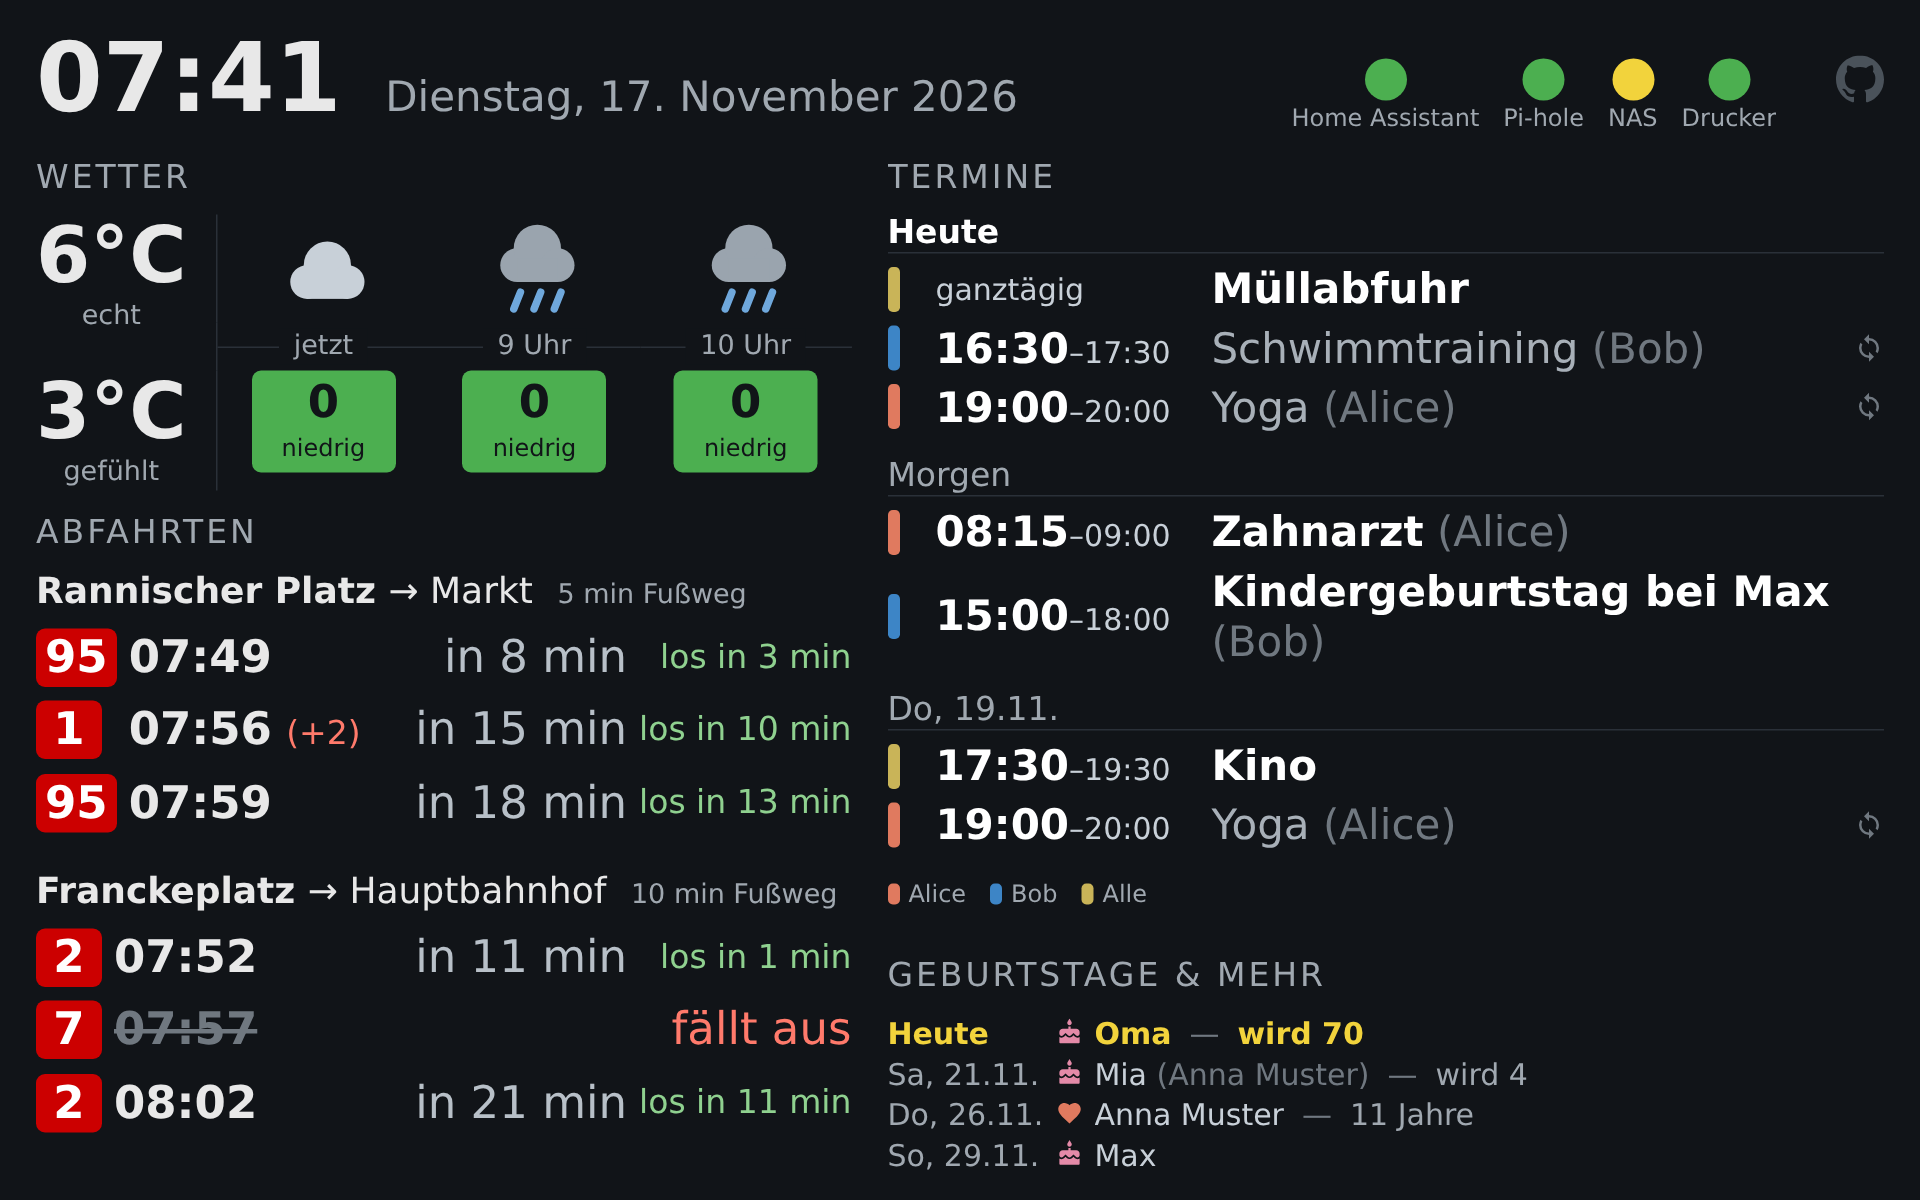
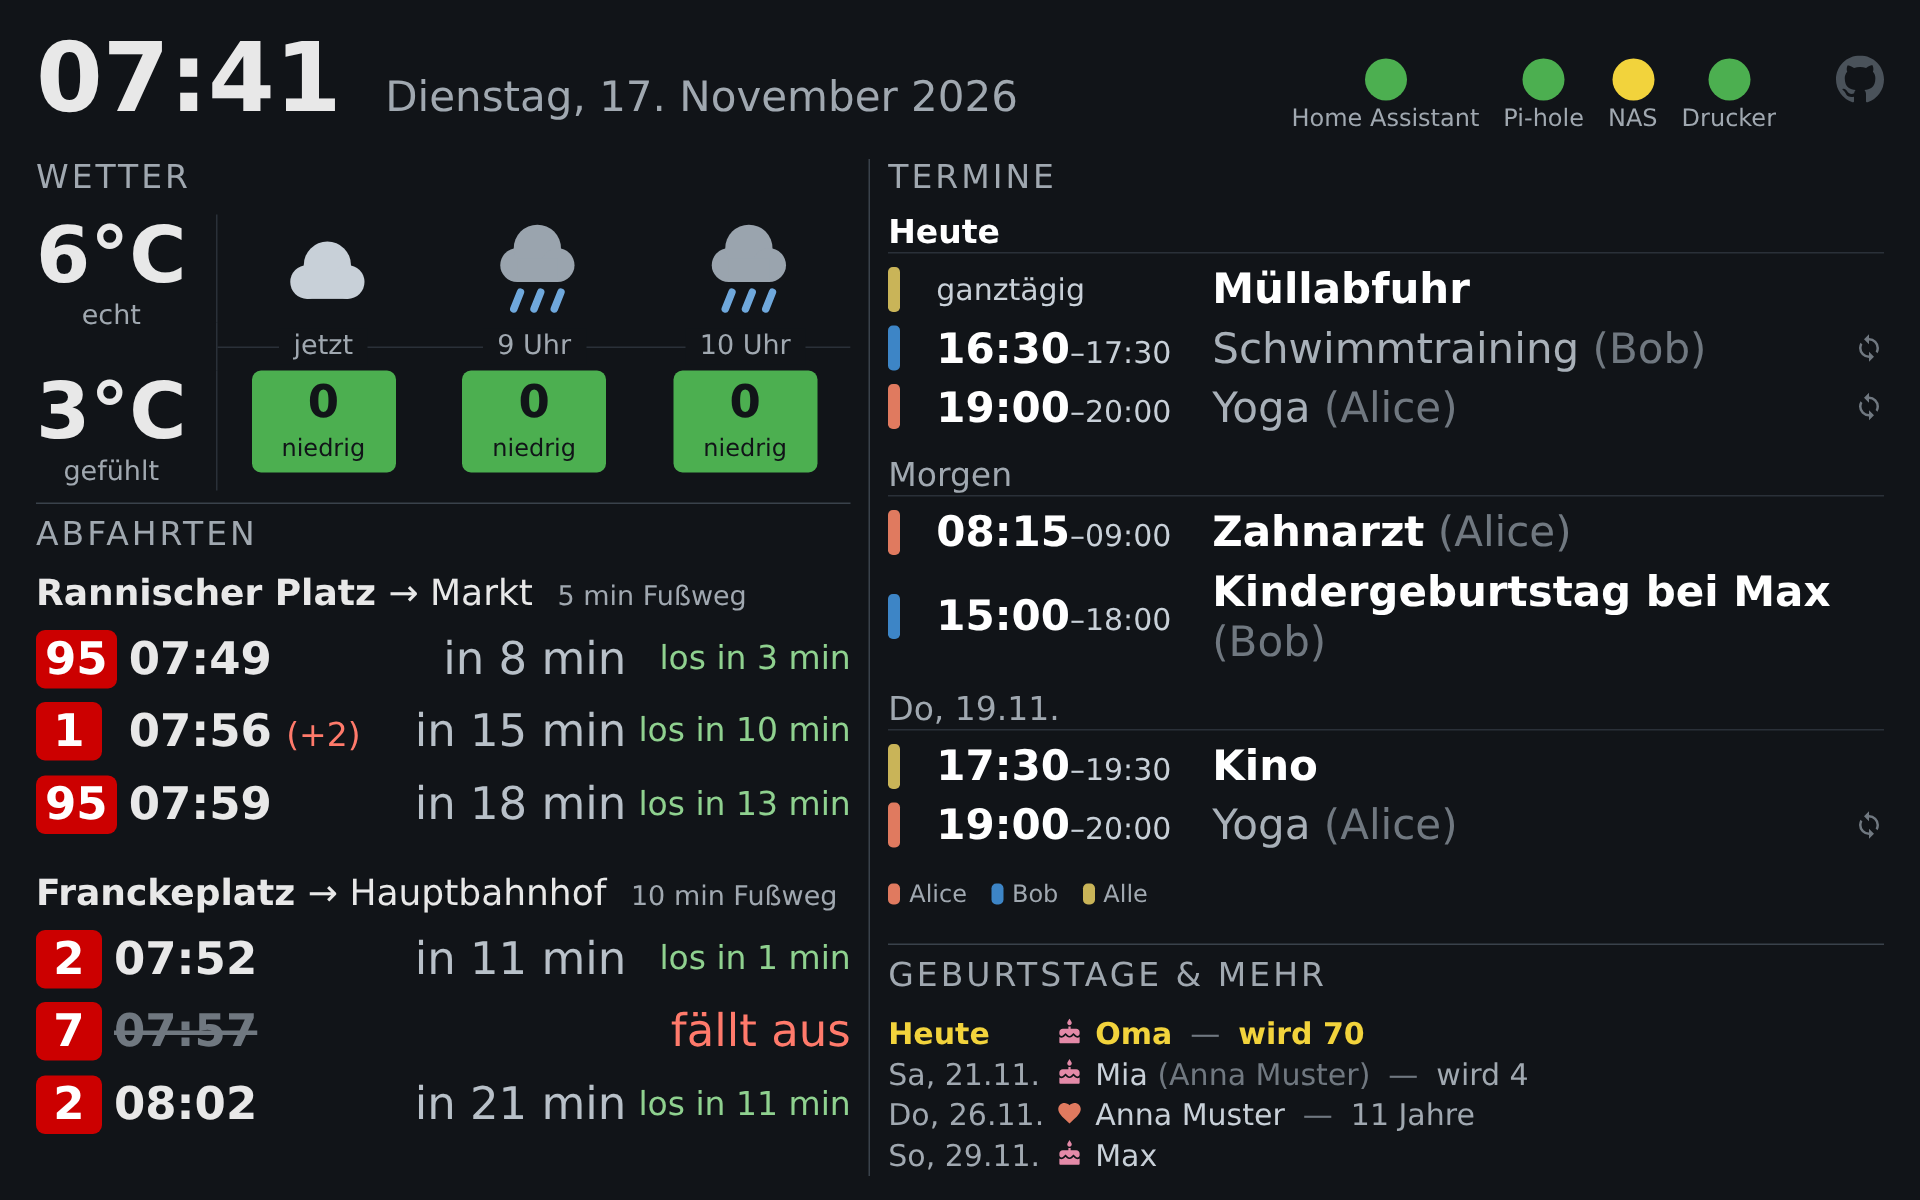
Separate the widgets with fine light gray lines
A vertical line between the two columns (horizontal when they stack in
portrait), a horizontal one between weather and departures and between
calendar and birthdays. The gaps keep their former size, so no rows are
lost. The calendar carries its line at the bottom, so the content-sized
birthdays stay exactly as high as their rows.

diff --git a/src/home_dashboard/static/style.css b/src/home_dashboard/static/style.css
@@ -200,7 +200,7 @@ body {
   -webkit-box-flex: 9;
   -webkit-flex: 9 1 0;
   flex: 9 1 0;
-  margin-right: 1.5rem;
+  margin-right: 0.75rem;
   min-width: 0;
   min-height: 0;
   display: -webkit-box;
@@ -213,6 +213,15 @@ body {
 
 .column:last-child {
   margin-right: 0;
+}
+
+/* Fine lines split the widgets: a vertical one between the columns, a horizontal one in each
+ * column, in the middle of the gaps (as wide and high as before the lines). Lighter than the lines
+ * inside the widgets (#2a3038). Padding and borders are outside the flex distribution, so the
+ * 45/55 split of the widths stays exact. */
+.column + .column {
+  padding-left: 0.75rem;
+  border-left: 1px solid #3a424b;
 }
 
 .column .widget {
@@ -252,7 +261,9 @@ body {
 }
 
 .widget-weather + .widget-departures {
-  margin-top: 1rem;
+  margin-top: 0.5rem;
+  padding-top: 0.5rem;
+  border-top: 1px solid #3a424b;
 }
 
 /* Below the calendar: as high as its content, at most a third of the column; the calendar takes
@@ -264,8 +275,15 @@ body {
   max-height: 33%;
 }
 
+/* The line belongs to the calendar (fixed height), so the birthdays stay exactly as high as their
+ * rows */
+.column .widget-calendar:not(:last-child) {
+  padding-bottom: 0.5rem;
+  border-bottom: 1px solid #3a424b;
+}
+
 .widget-calendar + .widget-birthdays {
-  margin-top: 1rem;
+  margin-top: 0.5rem;
 }
 
 /* Portrait or very narrow: widgets below each other */
@@ -286,6 +304,14 @@ body {
   .column:last-child,
   .column .widget {
     margin-bottom: 0;
+  }
+
+  /* The line between the columns turns horizontal */
+  .column + .column {
+    padding-left: 0;
+    border-left: 0;
+    padding-top: 1rem;
+    border-top: 1px solid #3a424b;
   }
 
   /* Weather + departures and calendar + birthdays share the height equally */

diff --git a/tests/test_layout.py b/tests/test_layout.py
@@ -463,3 +463,69 @@ def test_the_years_follow_the_name_and_are_never_cut_off(open_dashboard, viewpor
     assert short["years"]["right"] < short["row"]["right"] - 5 * short["rem"], "not at the edge"
     assert long["years"]["right"] <= long["row"]["right"] + 1, "the long name gives way"
     assert long["years"]["left"] >= long["text"]["right"]
+
+
+SEPARATORS = """() => {
+  const box = (el) => {
+    const b = el.getBoundingClientRect();
+    return {left: b.left, right: b.right, top: b.top, bottom: b.bottom};
+  };
+  // Every drawn border of the columns and widgets, as a line
+  const lines = [];
+  for (const el of document.querySelectorAll('.column, .widget')) {
+    const style = getComputedStyle(el);
+    const b = box(el);
+    const width = (side) => style[`border${side}Style`] !== 'none'
+      ? parseFloat(style[`border${side}Width`]) : 0;
+    if (width('Left')) lines.push({vertical: true, at: b.left, from: b.top, to: b.bottom});
+    if (width('Top')) lines.push({vertical: false, at: b.top, from: b.left, to: b.right});
+    if (width('Bottom')) lines.push({vertical: false, at: b.bottom, from: b.left, to: b.right});
+  }
+  // Where the widgets' content begins and ends (inside their padding)
+  const content = (id) => {
+    const widget = document.getElementById(id);
+    const visible = [...widget.children].filter((child) => child.offsetParent !== null);
+    return {
+      ...box(widget),
+      top: box(visible[0]).top,
+      bottom: Math.max(...visible.map((child) => box(child).bottom)),
+    };
+  };
+  return {lines, widgets: Object.fromEntries(
+    ['weather', 'departures', 'calendar', 'birthdays'].map((id) => [id, content(id)]))};
+}"""
+
+
+@pytest.mark.parametrize("viewport", VIEWPORTS, ids=lambda size: f"{size[0]}x{size[1]}")
+def test_fine_lines_separate_the_widgets(open_dashboard, viewport):
+    page = open_dashboard(viewport)
+    separators = page.evaluate(SEPARATORS)
+    lines, widgets = separators["lines"], separators["widgets"]
+    weather, departures = widgets["weather"], widgets["departures"]
+    calendar, birthdays = widgets["calendar"], widgets["birthdays"]
+    landscape = viewport[0] > viewport[1]
+
+    def separated(first, second, side_by_side):
+        """Exactly one line in the gap between two widgets, as long as they are"""
+        if side_by_side:
+            gap = (first["right"], second["left"])
+            span = (min(first["top"], second["top"]), max(first["bottom"], second["bottom"]))
+        else:
+            gap = (first["bottom"], second["top"])
+            span = (max(first["left"], second["left"]), min(first["right"], second["right"]))
+        found = [
+            line
+            for line in lines
+            if line["vertical"] == side_by_side and gap[0] <= line["at"] <= gap[1]
+        ]
+        assert len(found) == 1, (first, second, lines)
+        assert found[0]["from"] <= span[0] + 1 and found[0]["to"] >= span[1] - 1, found[0]
+
+    separated(weather, departures, side_by_side=False)
+    separated(calendar, birthdays, side_by_side=False)
+    if landscape:
+        separated(departures, calendar, side_by_side=True)
+    else:
+        separated(departures, calendar, side_by_side=False)
+    assert len(lines) == 3, "no line at the edges of the display"
+    assert_fits(page)
